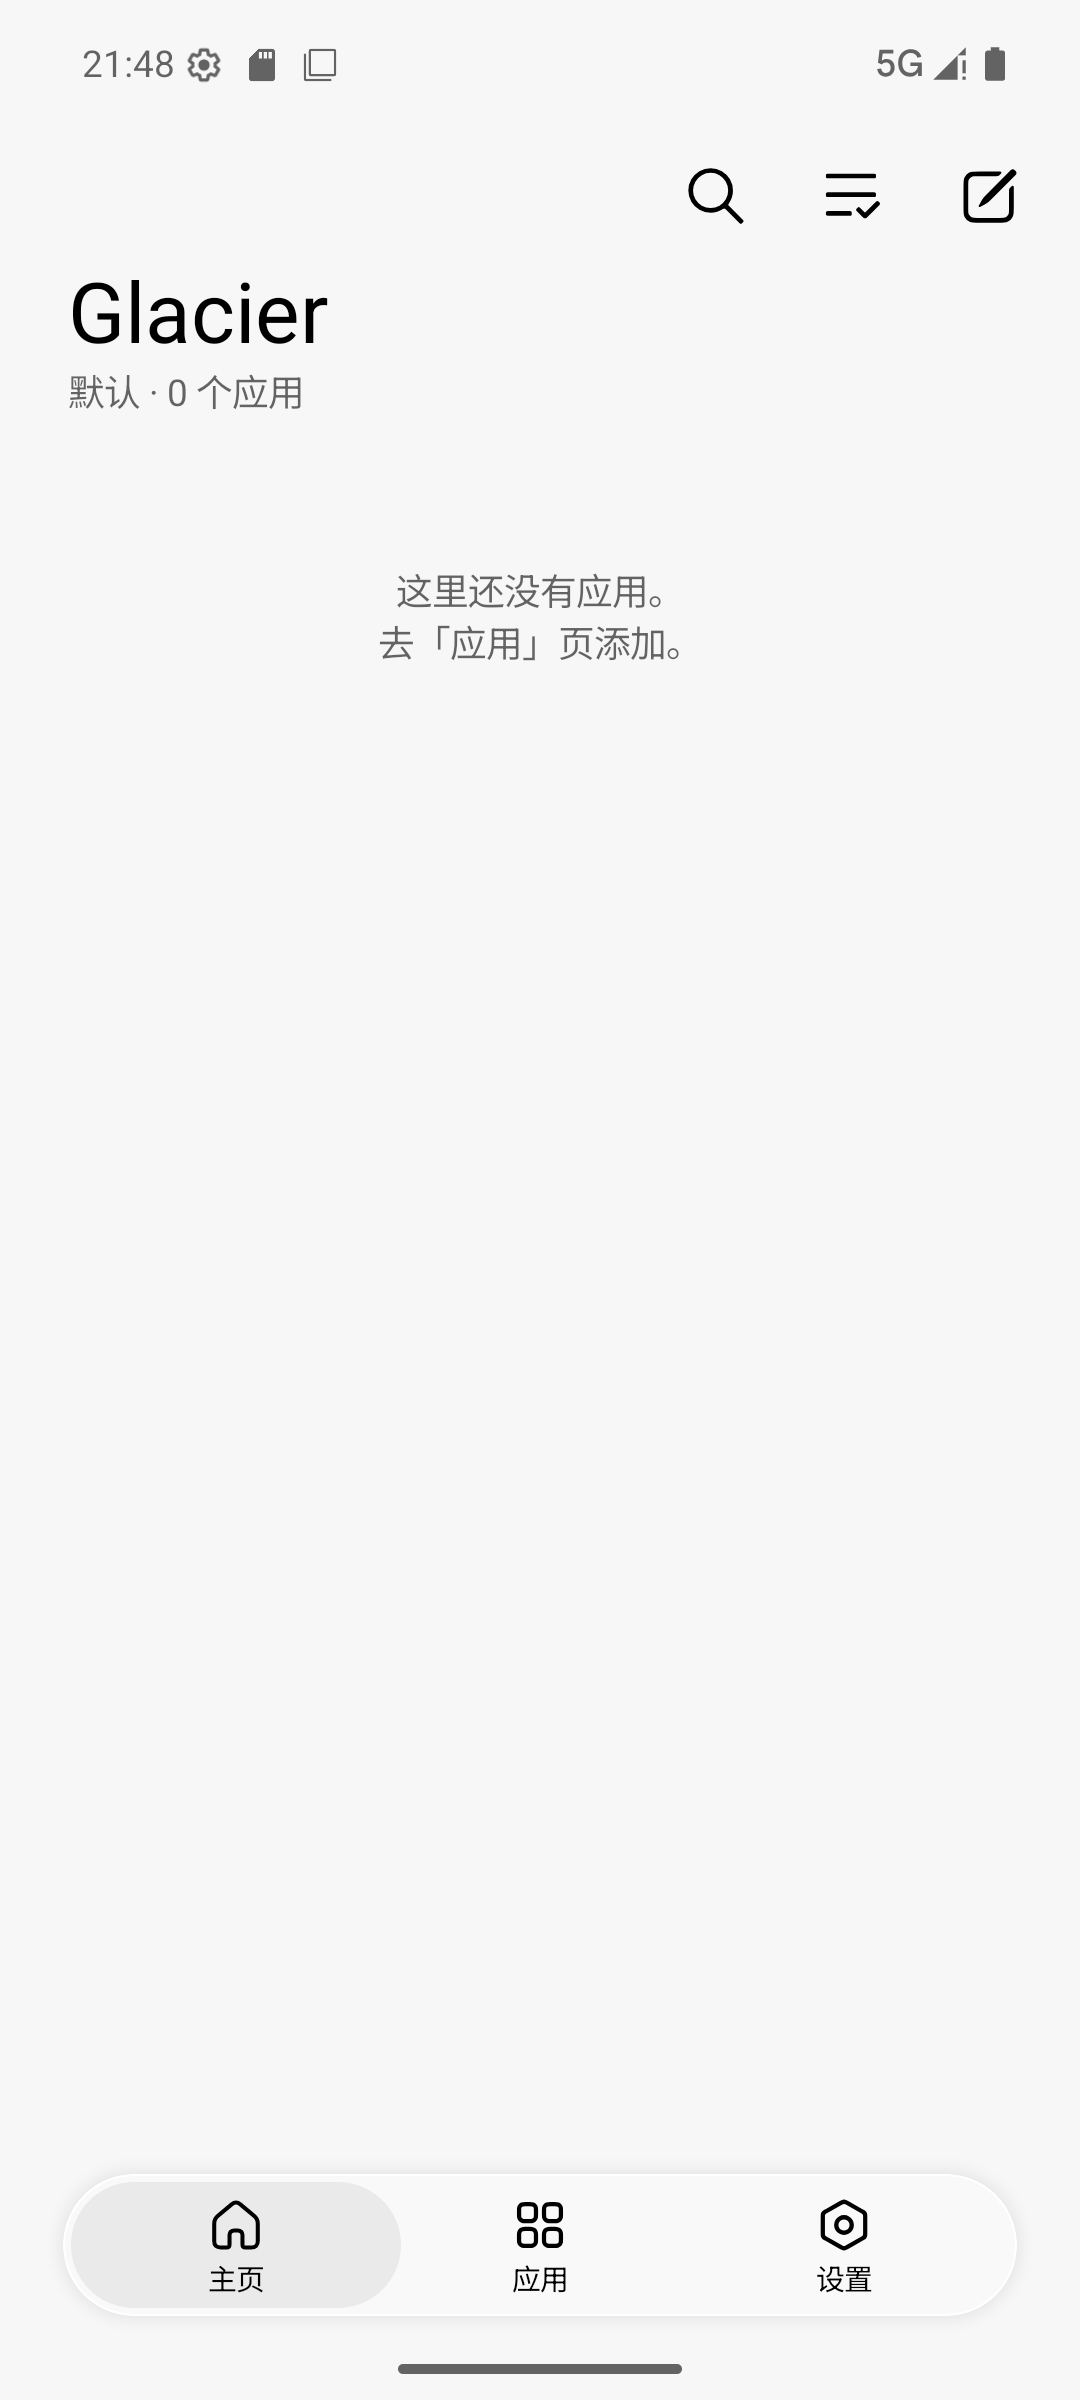
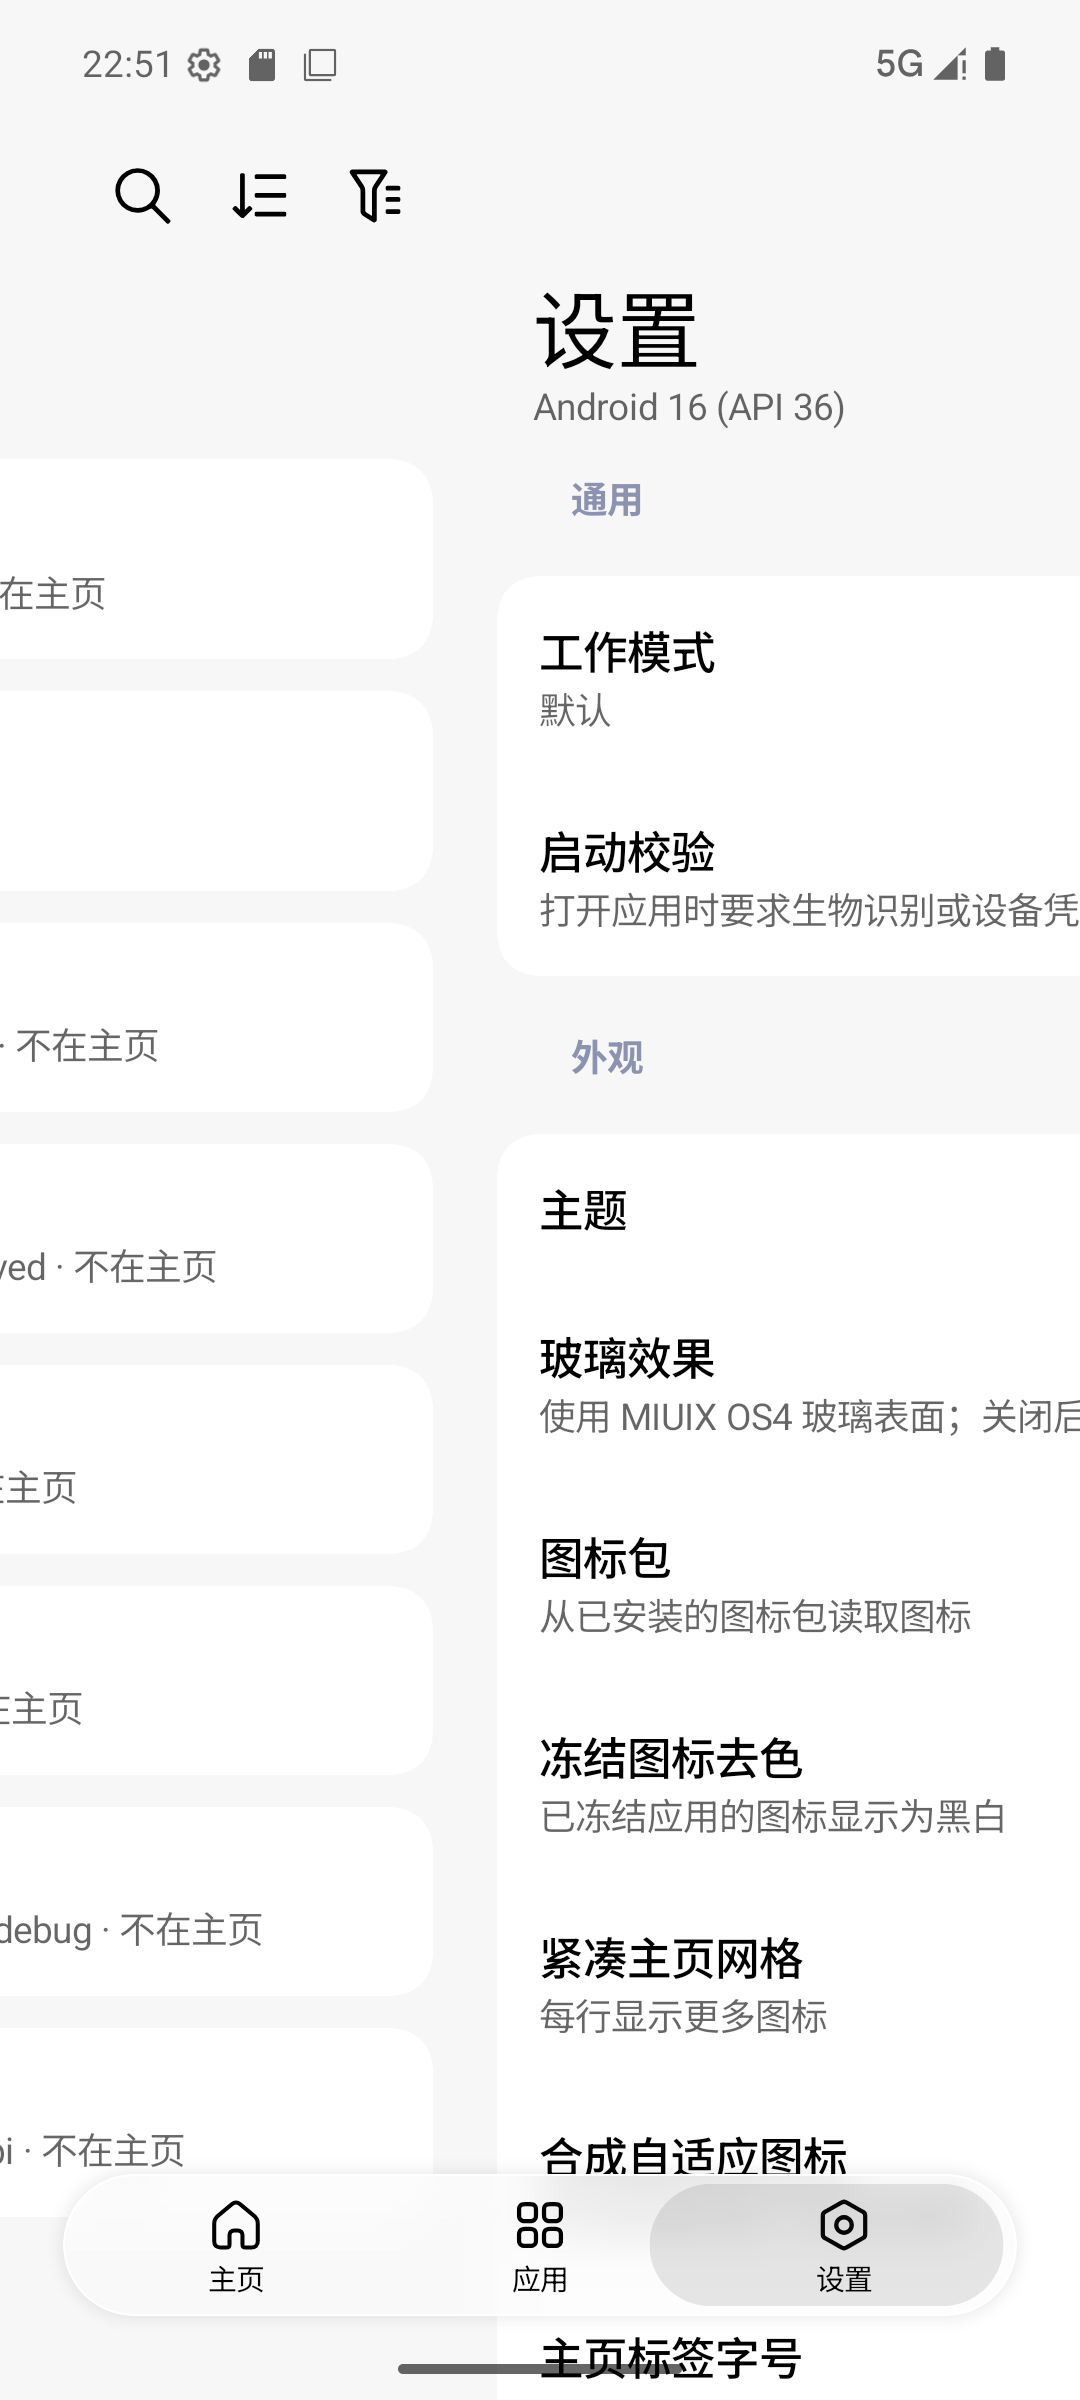
release: Glacier 1.1.0
Bump versionCode to 2 / versionName 1.1.0; add 1.1.0 release notes; refresh README glass structure and design-alignment links; refresh APK checksums and release smoke screenshot.

diff --git a/docs/release-notes/1.1.0.md b/docs/release-notes/1.1.0.md
@@ -1,0 +1,72 @@
+# Glacier 1.1.0
+
+第二轮界面整改：把整个应用按 MIUIX OS4 / OS4 Glass 重新对齐。这一版仍然只有界面与交互层面的改动，
+冻结后端、数据格式、外部 API 与自动化逻辑与 1.0.0 完全一致，可覆盖升级。
+
+## 这次修正了什么
+
+**底部导航（1.0.0 最明显的问题）**
+- 玻璃导航胶囊不再整屏拉满，改为 MIUIX 官方示例的 `24dp` 横向内边距（411dp 屏实测胶囊 363dp）；
+- 底栏进入页面 `Scaffold.bottomBar`，正文与 FAB 的让位由 Scaffold 按**实测**胶囊高度计算，
+  删掉了手算的 `Height + 导航栏 + 32dp` 魔法值（此前页面底部多留 68~104dp）。
+
+**页面骨架与间距**
+- 页面留白 / 卡片间距 / 列表末尾统一为官方 12dp，清掉 6/8/16/18dp 混用；
+- 修复 `pageContentPadding` 缓存第一帧 PaddingValues 的问题（Home 网格曾永远按错误的顶栏高度起排，标签会压住图标）；
+- 修复分页器在动画中回写 `currentPage` 导致 spring 被取消、出现"两页各露一半"的竞态；
+- 空状态正确让出顶栏；页面切换使用官方 `PagerNavigationSpringSpec`。
+
+**宽屏**
+- 对齐官方自适应：≥1200dp 常驻展开玻璃侧栏，840–1200dp 折叠为顶部胶囊（可点开展开）；
+- 侧栏展开时顶栏标题按 morph 进度淡出，搜索浮层让开折叠胶囊；二级页不再沿用一级页的侧栏高亮。
+
+**搜索 × 交互 BUG**
+- 搜索浮层改为常驻组合（只由 `expanded` 驱动），保留官方 400ms 几何动画与 150ms 取消按钮动画；
+- 输入框内 × 只清空输入、右侧 × 只关闭搜索；点关闭后不会打开标签编辑（已按 8 步流程实测）；
+- 搜索结果行改用官方卡片 + 标准行组件，底部为悬浮底栏让位。
+
+**弹层与动画**
+- Dialog / BottomSheet / 下拉菜单全部改为"常驻组合 + `show`"，退出动画不再被 `if` 砍掉；
+  标签编辑、标签命名、删除确认、延时冻结、排序、筛选、操作面板、API 窗口错误弹层均覆盖。
+
+**About 页**
+- 按 MIUIX 官方 About 示例重写：88dp 白底品牌区（24dp 圆角）、74dp 黑色标记、35sp Bold 应用名、
+  14sp 版本、官方卡片分组与 12dp 间距，二级页顶栏不可展开。
+
+**图标**
+- 自适应图标按 Android 规范的 72dp 安全区 1.5× 渲染后再套 MIUIX squircle 轮廓
+  （此前按 108dp 画布直接铺，第三方图标只显示约 2/3 大）；
+- 品牌图标改为白底 + 黑色主体、无渐变；Home 网格与 Apps 列表共用同一图标组件与圆角比例。
+
+**排版**
+- 硬编码英文与字符串拼接全部资源化；About/Licenses/Settings 的标题、值、说明走统一排版层级。
+
+## 验收
+
+- `:app:assembleDebug` ✅、`:app:assembleRelease` ✅（R8 + lintVital 通过）
+- Android 16 模拟器（1080×2400 / 411dp / 手势导航）逐页截图：深浅色、搜索、标签编辑、
+  操作面板、排序/筛选、多选、About、Licenses、API 窗口、横屏折叠/展开侧栏、旋转回竖屏、1.3x/2.0x 大字体
+- 截图与实测数据：`docs/verification/miuix-os4-r3/`（37 张，均来自本版本重新构建的 APK）
+
+## 必须知道的限制
+
+1. **冻结需要设备侧权限。** 默认 `default` 模式不会真的冻结任何应用；请在设置里选择本机支持的后端
+   （Shizuku / Root / Dhizuku / DeviceOwner / Island / 特权应用）。缺少权限时会如实提示"权限不足"。
+2. **本版本仍未在真机验证冻结链路。** 六条后端的写操作只有源码级实现；UI 与导航在 Android 16 模拟器上验证。
+3. **玻璃的光学观感（L3）未验证。** 模拟器为软件渲染（`ro.hardware.egl = emulation`），
+   折射、模糊半径、边缘光请在真机自行确认；本版本可以确认的是玻璃组件的挂载、采样与交互（L2）。
+4. 部分交互（通知使用权、使用情况访问、生物识别）需要在系统设置里手动授权后才生效。
+5. 已知未完成项：About 的 logo 滚动淡出动画、页面 overscroll/滚动条修饰、二级页转场特效、
+   Apps 多选、RTL / 三键导航 / 弹层大字体未逐项验证。完整清单见审计报告第 17.5 节。
+
+## 安装
+
+- 要求 Android 13（API 33）及以上
+- `adb install Glacier-release.apk`，或直接在设备上打开 APK
+- 包名 `com.ayang.glacier`；1.0.0 可直接覆盖升级
+
+## 许可证
+
+Glacier 以 **GPL-3.0-or-later** 发布，包含源自 [Hail](https://github.com/aistra0528/Hail)
+（作者 aistra0528，同样 GPL-3.0-or-later）的衍生代码。
+完整许可证见仓库 `LICENSE`，第三方组件、UI 设计参考来源见 `NOTICE.md`，应用内也有"开源许可证"页。

diff --git a/README.md b/README.md
@@ -47,25 +47,38 @@ UI 不直接调用系统服务：页面 → `GlacierRepository` → `FreezeContr
 ## Glass 结构
 
 ```
-Scaffold(Transparent, insets=0)                 ← 弹层宿主（最外层）
+Scaffold(Transparent, insets=0)                    ← 弹层宿主（最外层）
+├ bottomBar（窄屏）→ GlassNavigationBar(root)       ← R 的兄弟；24dp 横向内边距
 └ Box(fillMaxSize)
-   ├ Box(fillMaxSize).layerBackdrop(root)       ★录制层 R（满屏，录在分页容器外）
+   ├ Box(fillMaxSize).layerBackdrop(root)          ★录制层 R（满屏，录在分页容器外）
    │  └ NavDisplay → 一级页 HorizontalPager / 二级页
-   ├ GlassNavigationBar(backdrop = root)        ← R 的兄弟（窄屏）
-   └ GlassNavigationRail(backdrop = root)       ← R 的兄弟（宽屏）
+   └ GlassNavigationRail(backdrop = root)          ← R 的兄弟（宽屏）
 ```
 
-页面内部：
+页面内部（`PageFrame`，对照 MIUIX 官方 `GlassPage`）：
 
 ```
-Scaffold(topBar = GlassTopAppBar(pageBackdrop))
-└ content
-   └ Box(fillMaxSize).layerBackdrop(pageBackdrop)   ★录制层 P（先 drawRect(surface)）
-      └ 列表 / 网格（padding 走 contentPadding，内容才能滚到顶栏下面）
+Box
+├ Scaffold(containerColor = surface, insets = 0)
+│  ├ topBar   = GlassTopAppBar(pageBackdrop)
+│  ├ bottomBar= Spacer(LocalShellBottomBarHeight)   ← 透明占位：正文/FAB 按真实底栏高度让位
+│  └ body     = Box(fillMaxSize).layerBackdrop(pageBackdrop)   ★录制层 P
+│                └ 列表 / 网格（padding 走 contentPadding，内容才能滚到顶栏下面）
+└ overlay()                                          ← 搜索/弹层，画在 Scaffold 之上
 ```
 
 三条红线（见 `docs/architecture/glass-contract.md`）：消费者不是录制层的后代、
 采样源在消费者整个绘制区域都有像素、尺寸坐标只在量测/布局/绘制期读取。
+
+## 设计对齐
+
+界面按 MIUIX OS4 官方源码与 `example/shared` 逐项对齐（底栏 24dp 横向内边距、
+页面 12dp 留白、官方脚手架/滚动/弹层动画、About 页结构与尺寸、squircle 应用图标）。
+审计与验收记录：
+
+- [审计报告](docs/audit/miuix-os4-audit.md) · [Glass 架构](docs/audit/miuix-os4-glass-audit.md)
+- [修改清单](docs/plan/r3-change-list.md) · [构建与运行验收](docs/verification/miuix-os4-r3/README.md)
+- [MIUIX 官方契约摘录](docs/reference/miuix-os4-contract.md) · [参考项目与许可证](docs/reference/reference-projects.md)
 
 ## 许可证
 
